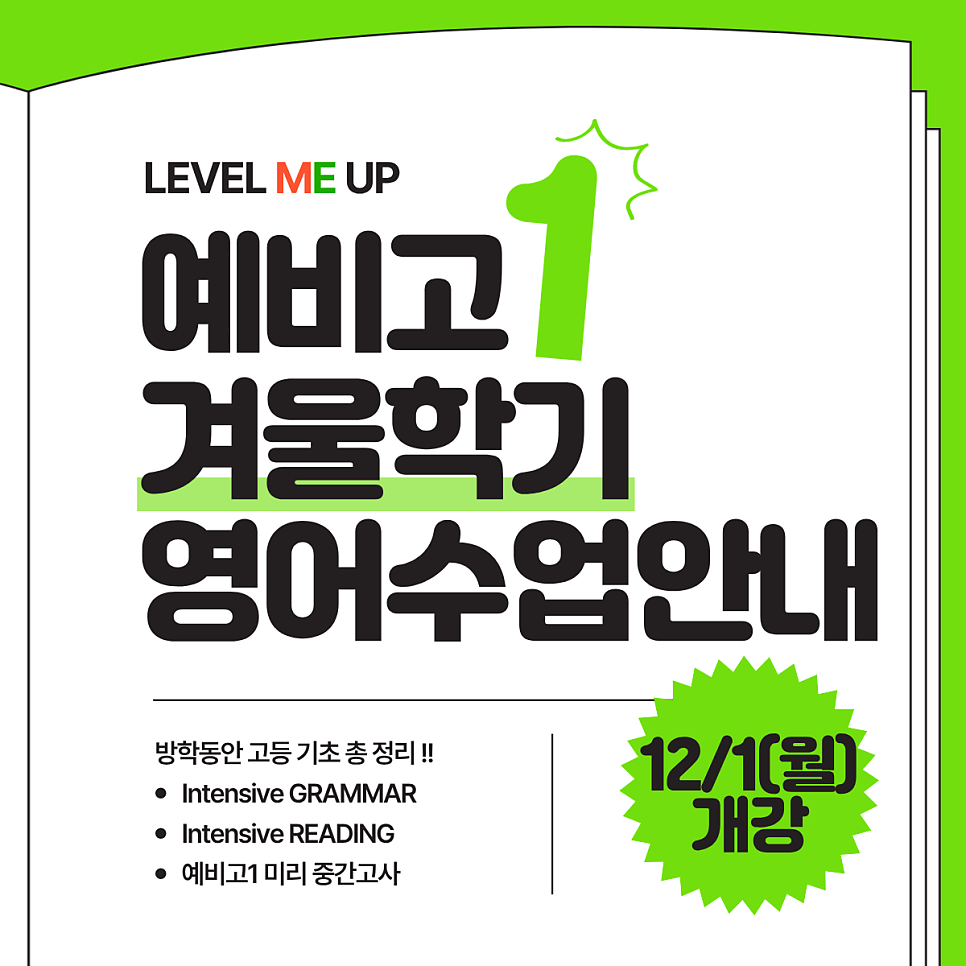
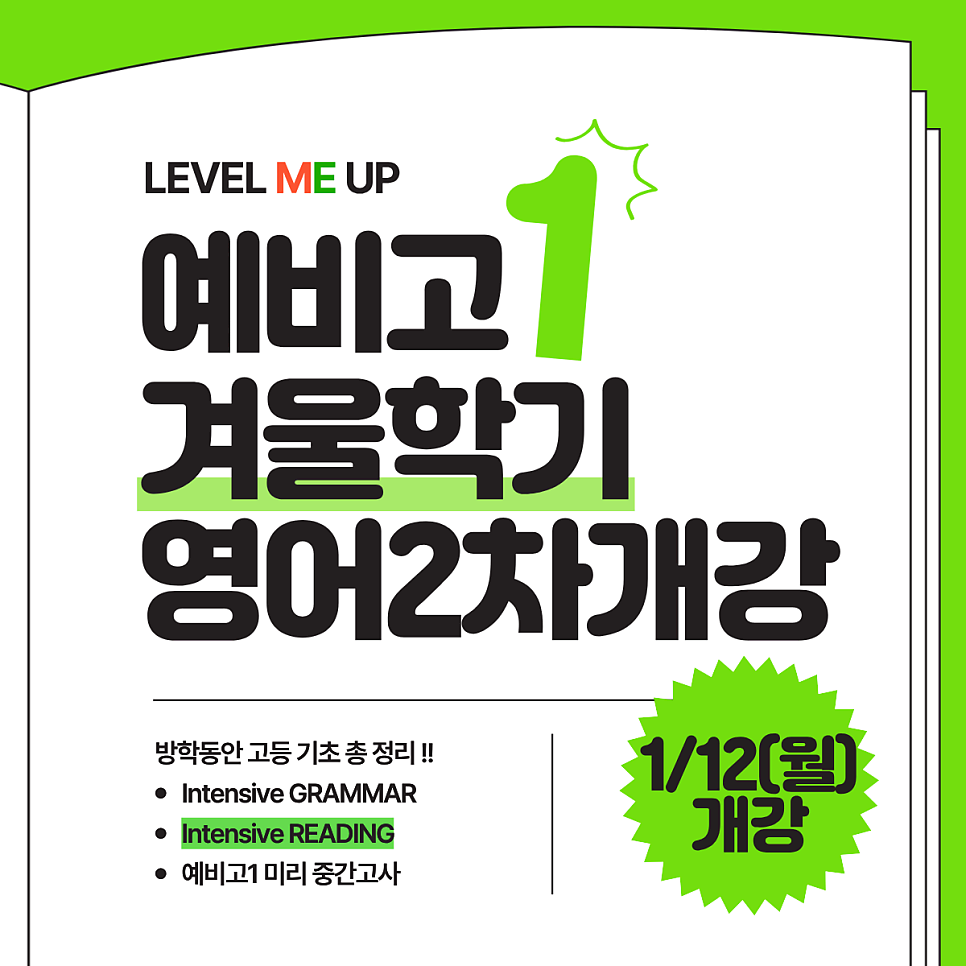
feat: 예비고1 겨울학기 영어 페이지 내용 및 이미지 업데이트
- 포스터 이미지 교체 (12월 개강안내 → 1/12 개강)
- 제목: '예비고1 Intensive READING' → '예비고1 겨울학기 영어 2차 개강'
- 부제: 12월 GRAMMAR → 1~2월 READING → 3월 미리 중간고사 흐름 명시
- 커리큘럼 3단계 구조화:
  1) 12월 | Intensive GRAMMAR (문법 기반)
     - 핵심 문법 개념 정리 + 적용 훈련
     - 문장 구조 읽기 기반 다지기
     - 고등 내신형 문제 접근법
  2) 1~2월 | Intensive READING (독해 구조/유형)
     - 지문 구조 분석 + 내용 흐름 파악
     - 내신/수능 유형별 독해 연습
     - 약점 보완 + 실전 적용
  3) 3월 | 미리 중간고사 + 내신 대비 개강
     - 미리 중간고사 진행
     - 결과 기반 약점 진단
     - 학교별 내신 대비 개강
- 레이아웃 및 가독성 개선

diff --git a/levelmeup-academy/src/pages/WinterProgram2026.tsx b/levelmeup-academy/src/pages/WinterProgram2026.tsx
@@ -315,15 +315,15 @@ const WinterProgram2026: React.FC = () => {
         <BackButton to="/">← 홈으로</BackButton>
         
         <HeroCard>
-          <HeroTitle>예비고1 Intensive READING (1~2월)</HeroTitle>
+          <HeroTitle>예비고1 겨울학기 영어 2차 개강</HeroTitle>
           <HeroSubtitle>
-            레벨미업 자체제작 독해교재 &lt;예비고1 미리 중간고사&gt;로<br />
-            고1 학교별 내신 기출 독해 지문 학습
+            12월 Intensive GRAMMAR → 1~2월 Intensive READING<br />
+            → 3월 미리 중간고사 & 내신 대비 개강
           </HeroSubtitle>
         </HeroCard>
 
         <MenuSection>
-          <MenuTitle>1월 수업 주차별 수업 커리큘럼</MenuTitle>
+          <MenuTitle>예비고1 겨울학기 커리큘럼 진행 흐름</MenuTitle>
           
           <ContentWithThumbnail>
             <ThumbnailContainer>
@@ -335,40 +335,49 @@ const WinterProgram2026: React.FC = () => {
             
             <ContentArea>
               <MenuContent style={{marginBottom: '30px'}}>
-                <div style={{padding: '20px', background: 'white', borderRadius: '12px', border: '1px solid #e0e0e0'}}>
-                  <h4 style={{fontSize: '1.3rem', marginBottom: '20px', color: '#1a1a1a'}}>주차별 수업 내용</h4>
+                <div style={{padding: '25px', background: 'white', borderRadius: '12px', border: '1px solid #e0e0e0', marginBottom: '25px'}}>
+                  <h3 style={{fontSize: '1.5rem', marginBottom: '20px', color: '#1a1a1a', fontWeight: '700'}}>12월 | Intensive GRAMMAR (문법 기반)</h3>
                   
-                  <div style={{display: 'grid', gridTemplateColumns: '1fr 1fr', gap: '30px', marginBottom: '20px'}}>
-                    <div>
-                      <p style={{fontWeight: '600', color: '#1a1a1a', marginBottom: '10px'}}>1회차</p>
-                      <ul style={{marginLeft: '0', paddingLeft: '0'}}>
-                        <li>weekly 모의고사 리뷰 + test</li>
-                      </ul>
-                    </div>
-                    
-                    <div>
-                      <p style={{fontWeight: '600', color: '#1a1a1a', marginBottom: '10px'}}>2회차</p>
-                      <ul style={{marginLeft: '0', paddingLeft: '0'}}>
-                        <li>미리 중간고사 진도 + test</li>
-                      </ul>
-                    </div>
-                  </div>
+                  <p style={{fontSize: '1.05rem', lineHeight: '1.8', color: '#555', marginBottom: '20px'}}>
+                    고등 영어의 기본은 "암기"가 아니라 <strong>문장 구조를 정확히 읽는 힘</strong>입니다.<br />
+                    겨울학기 12월은 중등 문법을 고등 내신/수능 관점으로 재정리하며,<br />
+                    해석·적용까지 가능한 문법 실력을 만드는 단계입니다.
+                  </p>
                   
-                  <div>
-                    <p style={{fontWeight: '600', color: '#1a1a1a', marginBottom: '10px'}}>weekly 모의고사</p>
-                    <ul style={{marginLeft: '0', paddingLeft: '0'}}>
-                      <li>토/일 모의고사 회차 주 1회 필수 응일</li>
-                    </ul>
-                  </div>
-                </div>
-                
-                <div style={{marginTop: '30px', padding: '20px', background: '#f8f9fa', borderRadius: '12px', border: '1px solid #e0e0e0'}}>
-                  <h4 style={{fontSize: '1.3rem', marginBottom: '15px', color: '#1a1a1a'}}>교재 및 학습 내용</h4>
                   <ul style={{marginLeft: '0', paddingLeft: '0'}}>
-                    <li>독해 지문 구조 분석 강의</li>
-                    <li>내신 출제 유형별 지문 학습 워크북</li>
-                    <li>서술형 유형 대비 워크북</li>
-                    <li>Intensive READING 교재 & 학습 가이드</li>
+                    <li>핵심 문법 개념 정리 + 적용 훈련</li>
+                    <li>문장 구조 읽기(해석) 기반 다지기</li>
+                    <li>고등 내신형 문제 접근 방식 익히기</li>
+                  </ul>
+                </div>
+
+                <div style={{padding: '25px', background: 'white', borderRadius: '12px', border: '1px solid #e0e0e0', marginBottom: '25px'}}>
+                  <h3 style={{fontSize: '1.5rem', marginBottom: '20px', color: '#1a1a1a', fontWeight: '700'}}>1~2월 | Intensive READING (독해 구조/유형)</h3>
+                  
+                  <p style={{fontSize: '1.05rem', lineHeight: '1.8', color: '#555', marginBottom: '20px'}}>
+                    12월에 쌓은 문법 기반을 바탕으로,<br />
+                    독해 지문을 <strong>"감으로 푸는 것"이 아니라 구조로 분석하고 흐름으로 이해</strong>하는 방식으로 훈련합니다.
+                  </p>
+                  
+                  <ul style={{marginLeft: '0', paddingLeft: '0'}}>
+                    <li>지문 문장 구조 분석 + 내용 흐름 파악</li>
+                    <li>내신/수능 유형별 독해 연습</li>
+                    <li>약점 유형 보완 + 실전 적용 훈련</li>
+                  </ul>
+                </div>
+
+                <div style={{padding: '25px', background: '#f8f9fa', borderRadius: '12px', border: '1px solid #e0e0e0'}}>
+                  <h3 style={{fontSize: '1.5rem', marginBottom: '20px', color: '#1a1a1a', fontWeight: '700'}}>3월 | 미리 중간고사 + 내신 대비 개강</h3>
+                  
+                  <p style={{fontSize: '1.05rem', lineHeight: '1.8', color: '#555', marginBottom: '20px'}}>
+                    방학 동안 학습한 내용을 실전 시험으로 점검하고,<br />
+                    학교별 내신 대비 커리큘럼으로 자연스럽게 연결합니다.
+                  </p>
+                  
+                  <ul style={{marginLeft: '0', paddingLeft: '0'}}>
+                    <li>3월 첫째 주: 예비고1 미리 중간고사 진행</li>
+                    <li>결과 기반 약점 진단 및 학습 방향 피드백</li>
+                    <li>3월 중순~: 학교별 내신 대비 본격 개강</li>
                   </ul>
                 </div>
               </MenuContent>
